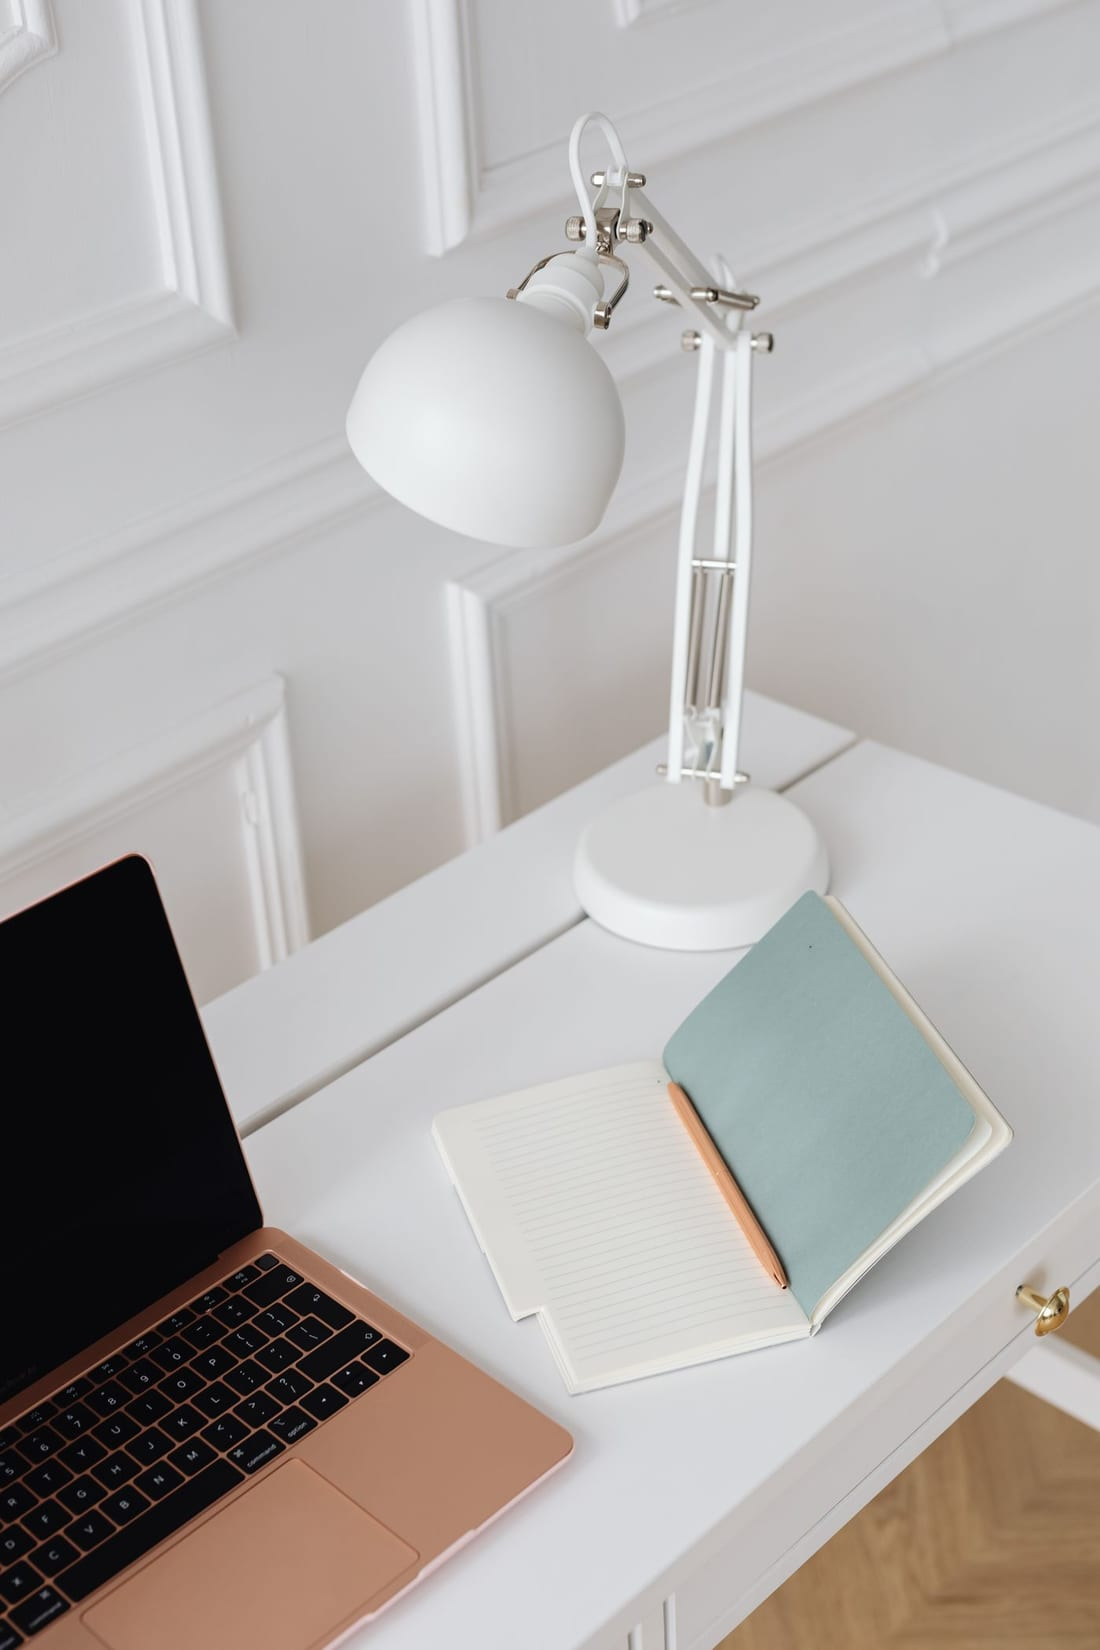
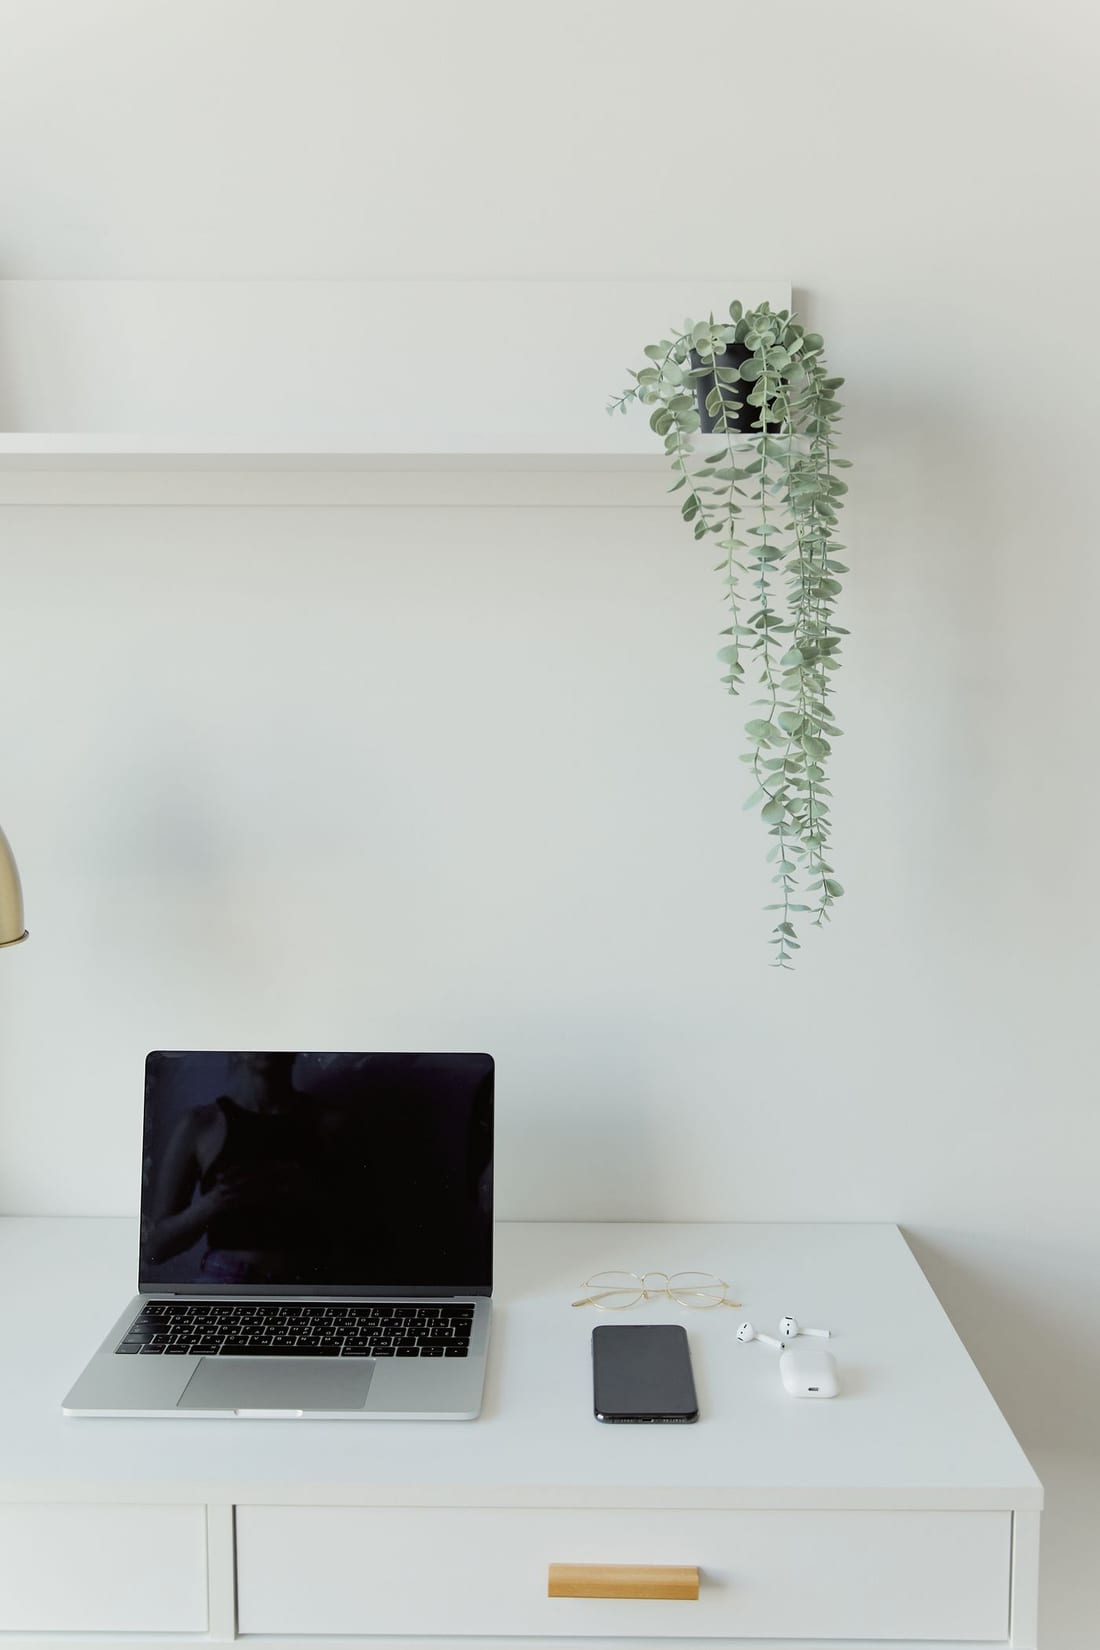
feat(landing): hero photo -> clean minimal MacBook desk (Leon's pick A)
Swap hero photo to a bright, minimalist white-desk MacBook scene that
matches the site's clean look (public/hero-lernen.jpg = Pexels 8004027,
Pexels License, no face, ~56KB). Focus crop on the MacBook + desk
(object-position 50% 84%). Verified: tsc, eslint, build, desktop + mobile.

diff --git a/src/components/LandingPage.module.css b/src/components/LandingPage.module.css
@@ -1446,7 +1446,7 @@
   width: 100%;
   height: 100%;
   object-fit: cover;
-  object-position: 50% 66%;
+  object-position: 50% 84%;
 }
 
 @media (max-width: 900px) {

diff --git a/src/components/LandingPage.tsx b/src/components/LandingPage.tsx
@@ -599,7 +599,7 @@ export default function LandingPage({
             <div className={styles.heroPhoto}>
               <img
                 src="/hero-lernen.jpg"
-                alt="Aufgeräumter, moderner Lernplatz mit Laptop und Heft – Vorbereitung aufs Mathe-Abitur."
+                alt="Aufgeräumter, moderner Lernplatz mit MacBook – Vorbereitung aufs Mathe-Abitur."
                 width={1100}
                 height={1650}
                 loading="eager"